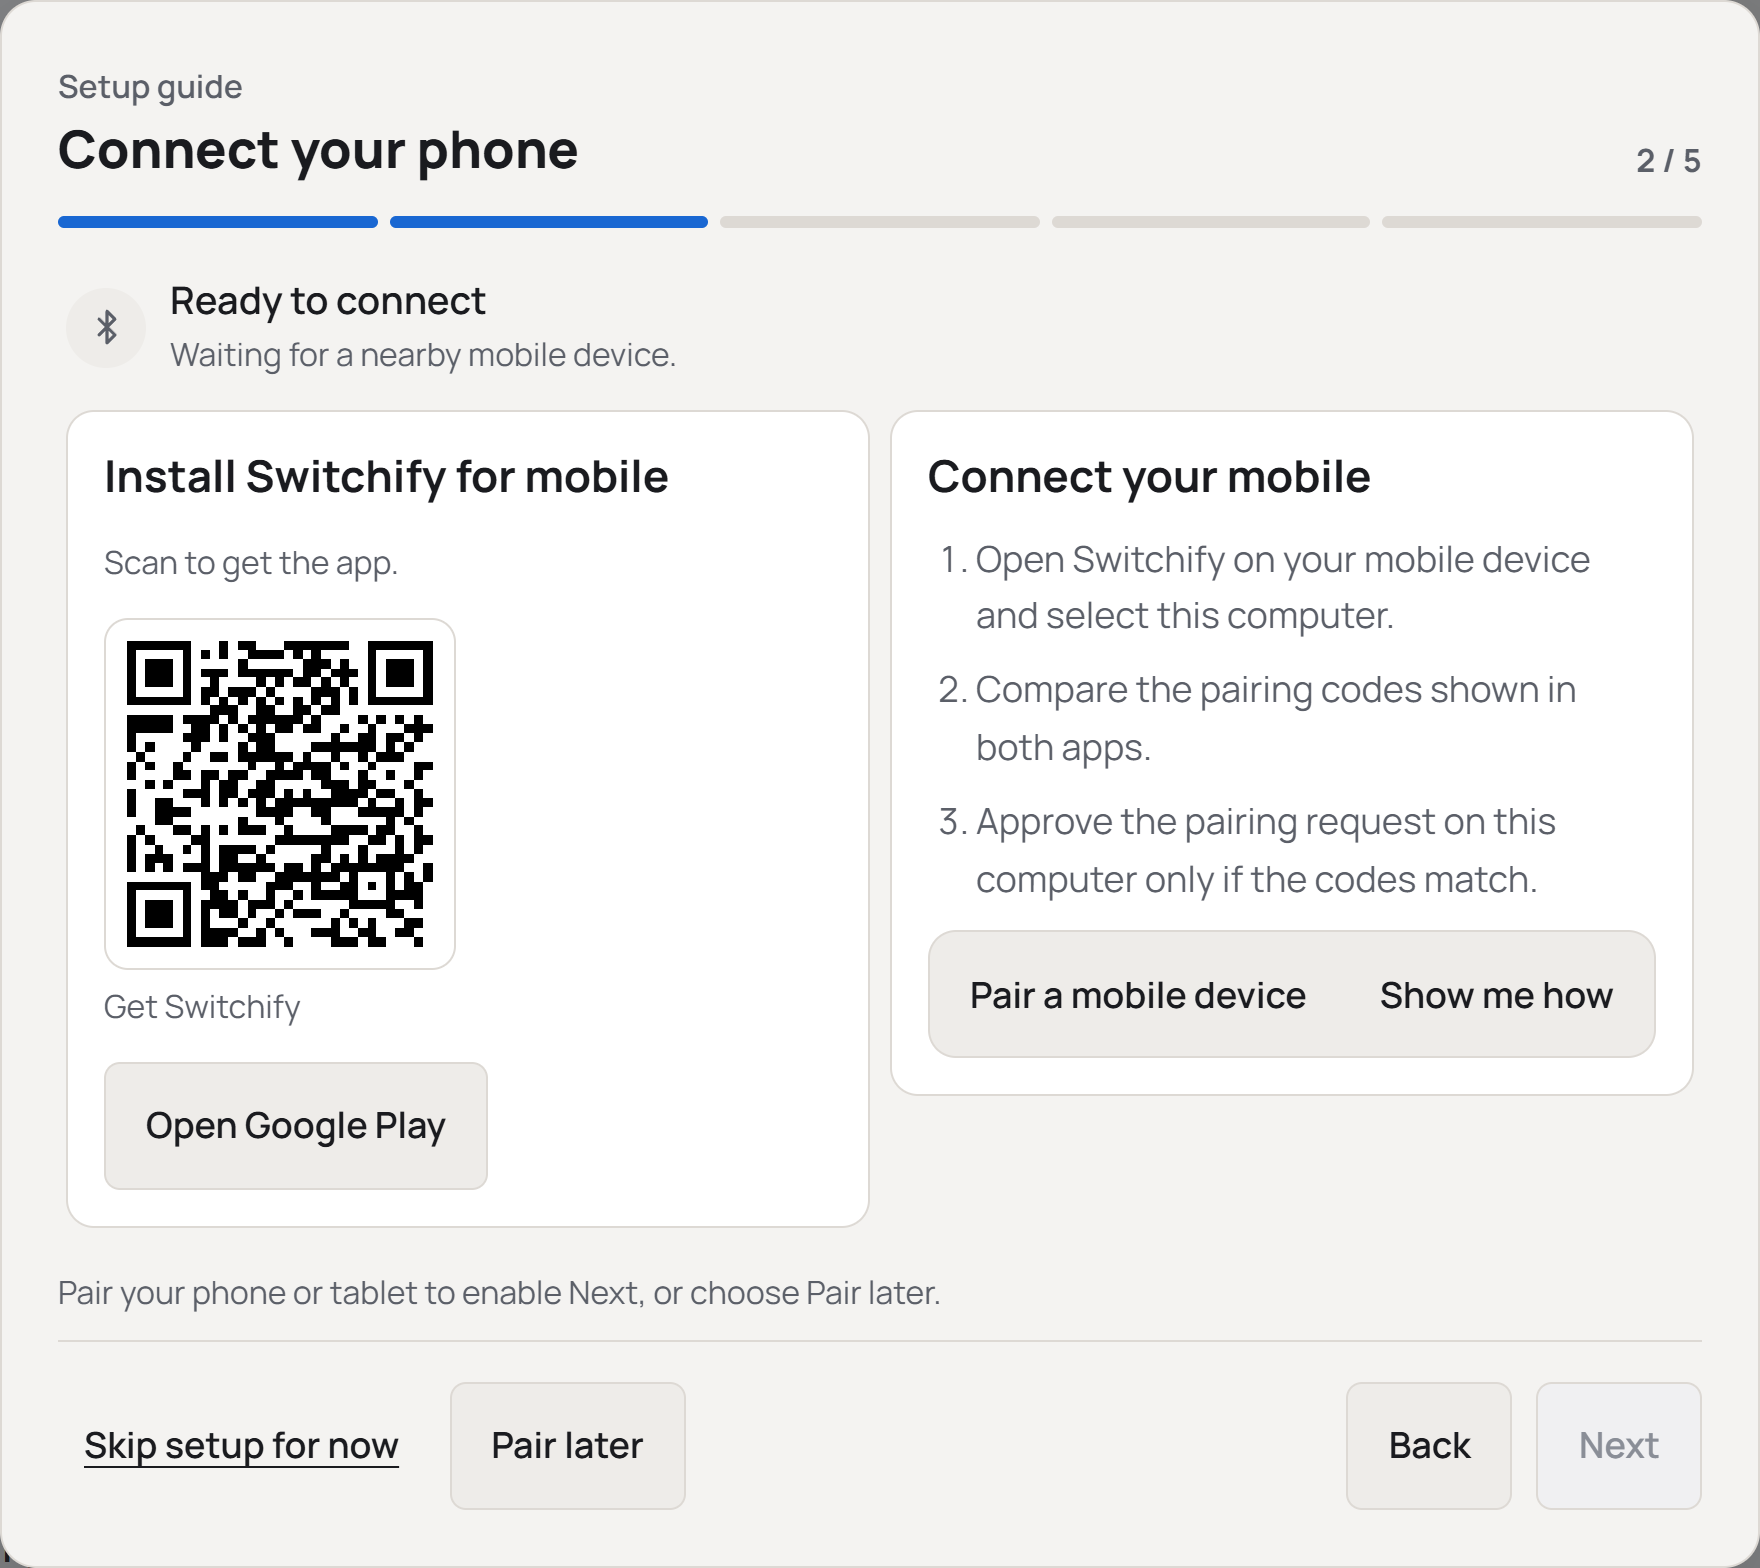
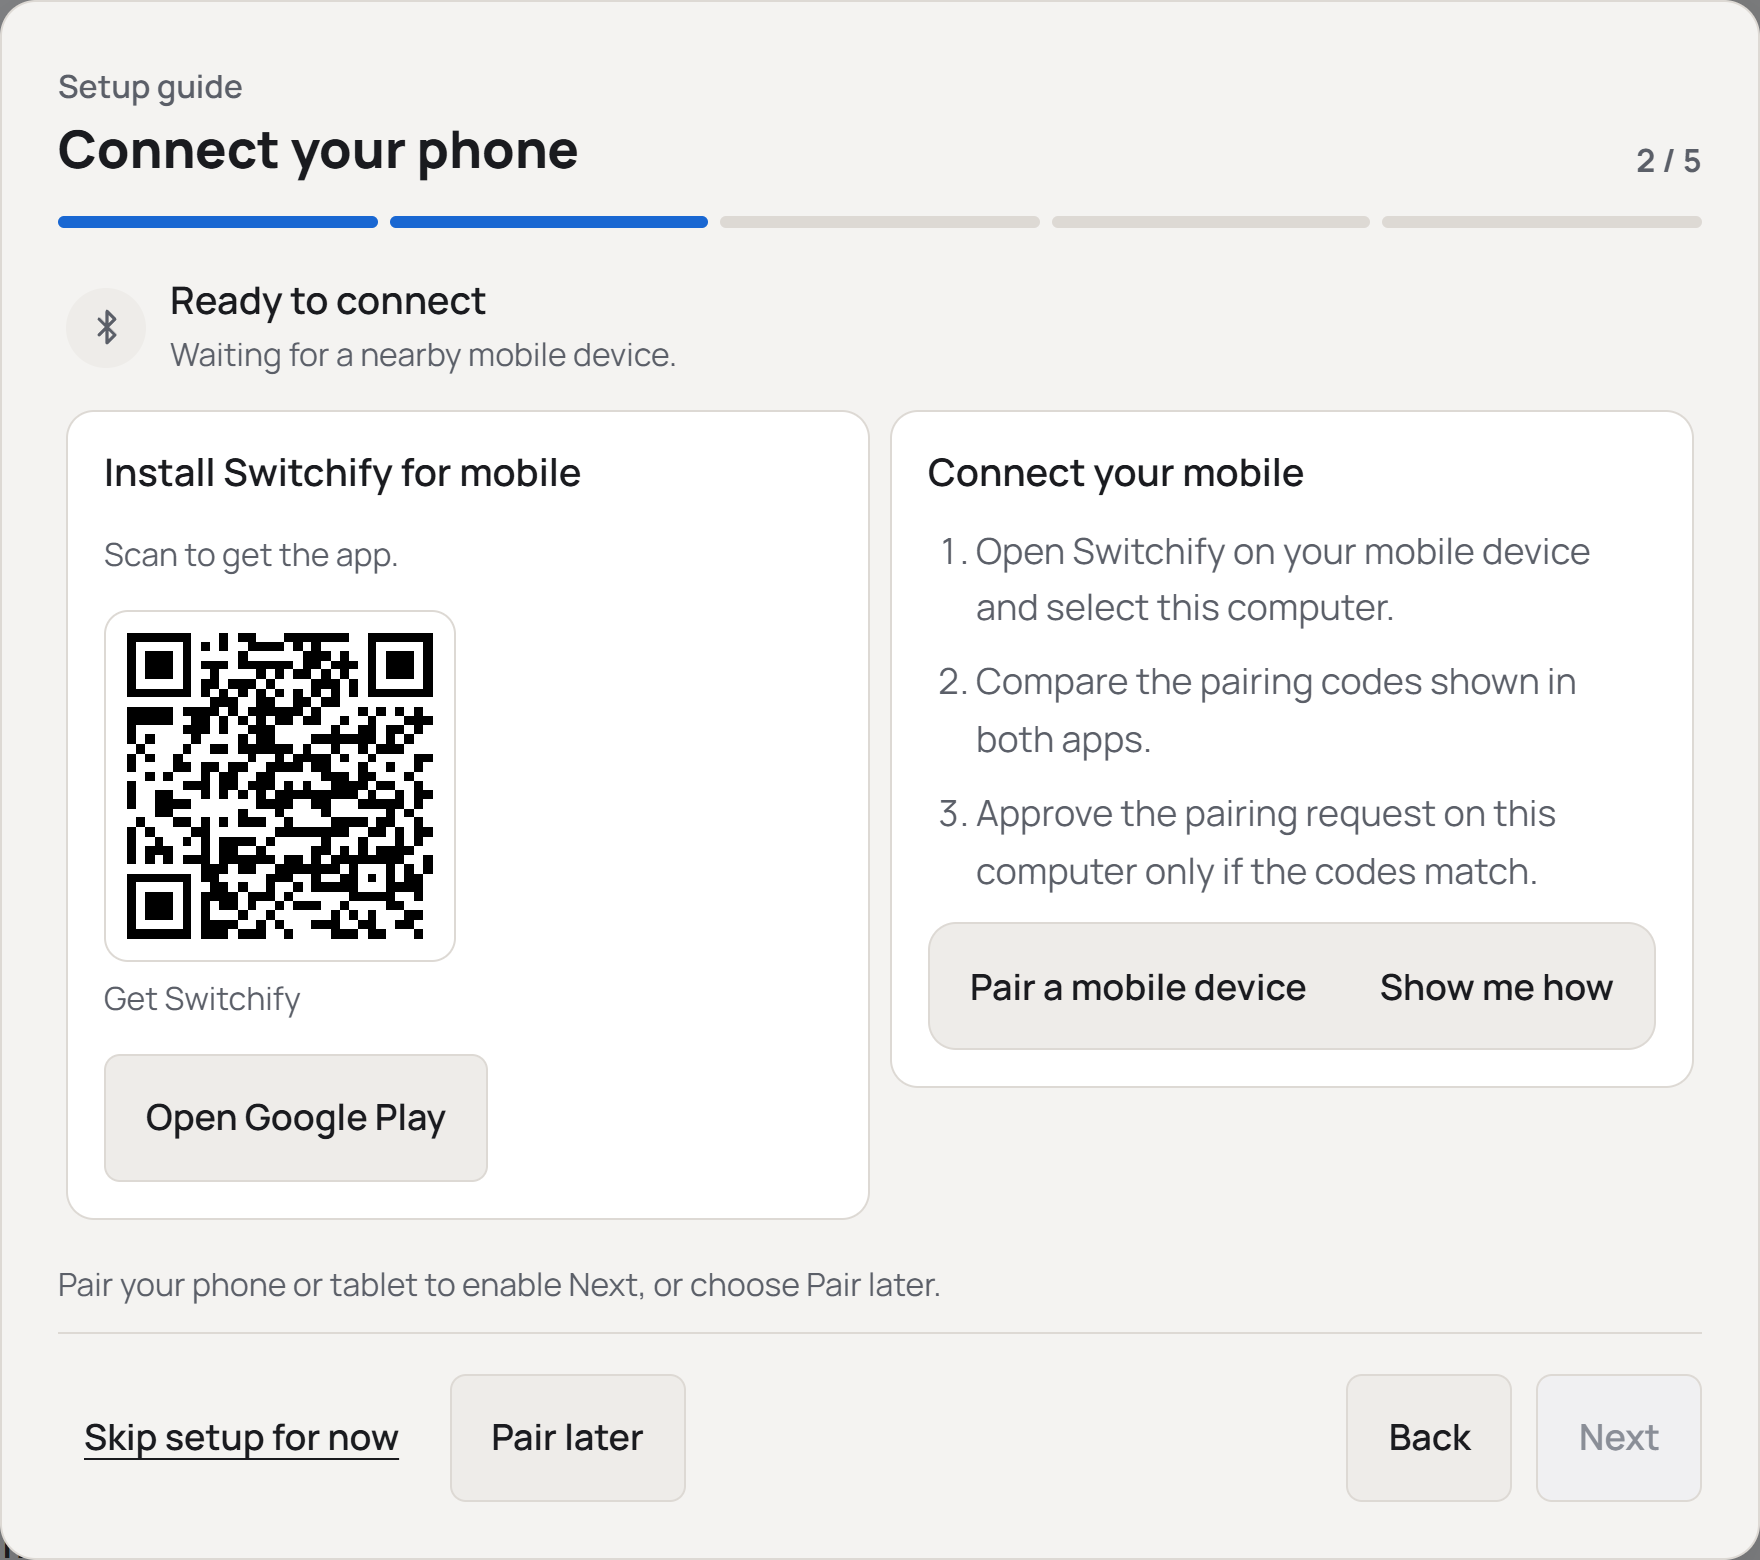
Address review of the setup guide connect step
- Hold the guide for switch saving only on the switch step, so an
  earlier failed save cannot trap someone on the phone path.
- Preselect the computer path when saved switches load after the
  guide opens.
- Keep the switch interface advice on the guide's switch step.
- Use h3 headings for the install cards inside the guide, and keep
  the chosen connection's description readable in forced colours.
- Docs: the phone choice is also unavailable when Bluetooth could not
  start.

Refs #1486

diff --git a/src/setup/SetupGuide.tsx b/src/setup/SetupGuide.tsx
@@ -44,6 +44,8 @@ export function SetupGuide({ state, switches, suspended, busy, error, skip, fini
   // Reopened after setup, the guide starts from what is already there.
   const [connection, setConnection] = useState<Connection | null>(() =>
     switches.state?.settings.bindings.length ? "computer" : state.pairedDevices.length && !phoneUnavailable ? "phone" : null);
+  const savedSwitches = !!switches.state?.settings.bindings.length;
+  useEffect(() => { if (savedSwitches) setConnection(current => current ?? "computer"); }, [savedSwitches]);
   const steps: Step[] = [...(inputAccessRequired ? ["access" as const] : []), "connect", connection === "phone" ? "phone" : "switch", "basics", "startup", "diagnostics"];
   const [requestedStep, setStep] = useState<Step>(() => inputAccessRequired ? "access" : "connect");
   // Permission can arrive while this guide is open. Move straight on without
@@ -58,7 +60,9 @@ export function SetupGuide({ state, switches, suspended, busy, error, skip, fini
   const dialogRef = useRef<HTMLElement>(null);
   const [switchDraft, setSwitchDraft] = useState(false);
   const capturing = switches.capturing || !!switches.state?.capture.active;
-  const switchBusy = capturing || !!switches.pending || switches.unsaved || switchDraft;
+  // Switch saving holds the guide only on the switch step, where it can be retried;
+  // elsewhere, an earlier failed save must not trap someone in the guide.
+  const switchBusy = step === "switch" && (capturing || !!switches.pending || switches.unsaved || switchDraft);
   const paired = state.pairedDevices.length > 0;
   const hasSwitch = !!switches.state?.settings.bindings.length;
   const canContinue = step === "connect" ? connection !== null
@@ -69,15 +73,14 @@ export function SetupGuide({ state, switches, suspended, busy, error, skip, fini
   const last = index === steps.length - 1;
   const next = () => last ? void finish(startupChoice!, diagnosticsChoice!) : setStep(steps[index + 1]);
   const guidanceId = useId();
-  const navigationGuidance = capturing
+  const navigationGuidance = !switchBusy ? null : capturing
     ? "Finish capturing a switch or cancel capture before continuing."
     : switches.pending
       ? "Wait for your switch changes to finish saving before continuing."
       : switches.unsaved
         ? "Your switch changes have not saved. Retry saving before continuing."
-        : switchDraft
-          ? "Save or cancel the new switch before continuing."
-          : busy
+        : "Save or cancel the new switch before continuing.";
+  const stepGuidance = busy
             ? "Please wait while setup saves your changes."
             : step === "connect" && connection === null
               ? "Choose how you will connect to enable Next."
@@ -90,6 +93,8 @@ export function SetupGuide({ state, switches, suspended, busy, error, skip, fini
                     : step === "diagnostics" && diagnosticsChoice === null
                       ? "Choose whether to share diagnostics to enable Finish."
                       : null;
+
+  const guidance = navigationGuidance ?? stepGuidance;
 
   useEffect(() => { if (!suspended && !capturing) dialogRef.current?.focus(); }, [step, suspended]);
 
@@ -119,20 +124,20 @@ export function SetupGuide({ state, switches, suspended, busy, error, skip, fini
           <h3>{paired ? `Paired with ${state.pairedDevices[0].deviceName}` : bluetoothLabels[state.bluetooth]}</h3>
           <p>{paired ? "You can pair more devices later from Mobile." : bluetoothDescriptions[state.bluetooth]}</p>
         </div></div>
-        <MobileInstallCards attributes={false} />
+        <MobileInstallCards attributes={false} nested />
       </div>}
       {step === "basics" && <div><h3>Use your switches</h3><p>Press and release Select to open Home. Choose Point to pick a place on the screen and an action, Mouse to move a visible pointer ring with mouse controls, or Keyboard to type. Apps and windows brings another app forward, so you never need to focus an app first. After an action, Select carries on in the same mode.</p><p>Automatic scanning moves the highlight for you. Use Auto scan rate for grid and panel timing, and Line speed for point scanning lines. Holding a switch pauses the scan highlight; release runs the action shown. Choose whether repeating Mouse movement and scrolling stop on switch press or release under Scanning, Mouse pointer.</p><p>Escape disables switch control. Assign Stop scanning or Pause / resume in Switches. Holding any switch for {switches.state ? switches.state.escapeHoldMs / 1000 : 4}s disables switch control.</p><p>Open Scanning after setup to adjust movement and switch between Point and Mouse. Mobile connection is optional.</p><Demonstration kind="grid" /><Demonstration kind="line" /><Demonstration kind="hold" /></div>}
       {step === "startup" && <div><h3>Choose startup behavior</h3><p>Switchify can start quietly when you sign in, ready for your switches.</p><div className="setup-choices" role="group" aria-label="Start with system choice"><Button className="secondary" aria-pressed={startupChoice === true} onClick={() => setStartupChoice(true)}>Start with system</Button><Button className="secondary" aria-pressed={startupChoice === false} onClick={() => setStartupChoice(false)}>Start manually</Button></div><Demonstration kind="startup" /></div>}
       {step === "diagnostics" && <div><h3>Choose whether to share diagnostics</h3><p>Optional anonymous app health, internal error reports and sanitized errors, sent to Sentry, help improve Switchify. Typed text, commands, pairing secrets, device names, and full paths are never included.</p><div className="setup-choices" role="group" aria-label="Anonymous diagnostics choice"><Button className="secondary" disabled={!state.telemetry.available} aria-pressed={diagnosticsChoice === true} onClick={() => setDiagnosticsChoice(true)}>Share diagnostics</Button><Button className="secondary" aria-pressed={diagnosticsChoice === false} onClick={() => setDiagnosticsChoice(false)}>Don’t share</Button></div><a className="setup-privacy" href="https://www.theswitchify.app/privacy" target="_blank" rel="noreferrer">Privacy policy</a></div>}
     </div>
-    <p id={guidanceId} className="setup-navigation-guidance" role="status">{navigationGuidance}</p>
+    <p id={guidanceId} className="setup-navigation-guidance" role="status">{guidance}</p>
     <footer>
       <Button className="text-button" disabled={busy || switchBusy} onClick={() => void skip()}>Skip setup for now</Button>
       {step === "switch" && !hasSwitch && <Button className="secondary" disabled={busy || switchBusy} onClick={next}>Set up switches later</Button>}
       {step === "phone" && !paired && <Button className="secondary" disabled={busy} onClick={next}>Pair later</Button>}
       <span />
       <Button className="secondary" disabled={busy || switchBusy || index === 0} onClick={() => setStep(steps[index - 1])}>Back</Button>
-      <Button className="primary" aria-describedby={navigationGuidance ? guidanceId : undefined} disabled={busy || switchBusy || !canContinue} onClick={next}>{last ? "Finish" : "Next"}</Button>
+      <Button className="primary" aria-describedby={guidance ? guidanceId : undefined} disabled={busy || switchBusy || !canContinue} onClick={next}>{last ? "Finish" : "Next"}</Button>
     </footer>
   </Dialog>;
 }

diff --git a/src/App.test.tsx b/src/App.test.tsx
@@ -582,6 +582,52 @@ describe("Switchify PC shell", () => {
     expect(screen.getByRole("dialog", { name: "Connect your phone" })).toBeInTheDocument();
   });
 
+  it("does not hold the phone path on an earlier failed switch save", async () => {
+    browserState.bluetooth = "advertising";
+    const switches = localSwitches();
+    switches.settings.bindings = [];
+    switches.state!.settings.bindings = [];
+    switches.unsaved = true;
+    switches.error = "Save failed";
+    vi.spyOn(switchHooks, "useSwitches").mockReturnValue(switches);
+    render(<App />);
+    fireEvent.click(await screen.findByRole("button", { name: "Help" }));
+    fireEvent.click(screen.getByRole("button", { name: "Open setup guide" }));
+    expect(await screen.findByRole("button", { name: "Skip setup for now" })).toBeEnabled();
+    fireEvent.click(screen.getByRole("button", { name: "Switchify on my Android phone or tablet" }));
+    fireEvent.click(screen.getByRole("button", { name: "Next" }));
+    expect(screen.getByRole("dialog", { name: "Connect your phone" })).toBeInTheDocument();
+    expect(screen.getByRole("button", { name: "Pair later" })).toBeEnabled();
+    expect(screen.getByRole("button", { name: "Back" })).toBeEnabled();
+    // On the switch step the same failure is shown and holds the guide until retried.
+    fireEvent.click(screen.getByRole("button", { name: "Back" }));
+    fireEvent.click(screen.getByRole("button", { name: "A switch on this computer" }));
+    fireEvent.click(screen.getByRole("button", { name: "Next" }));
+    expect(screen.getByRole("button", { name: "Next" })).toHaveAccessibleDescription("Your switch changes have not saved. Retry saving before continuing.");
+  });
+
+  it("preselects a switch on this computer when saved switches load after the guide opens", async () => {
+    const switches = localSwitches();
+    const loading = { ...switches, state: null };
+    const hook = vi.spyOn(switchHooks, "useSwitches").mockReturnValue(loading);
+    const { rerender } = render(<App />);
+    fireEvent.click(await screen.findByRole("button", { name: "Help" }));
+    fireEvent.click(screen.getByRole("button", { name: "Open setup guide" }));
+    expect(await screen.findByRole("button", { name: "A switch on this computer" })).toHaveAttribute("aria-pressed", "false");
+    hook.mockReturnValue(switches);
+    rerender(<App />);
+    await waitFor(() => expect(screen.getByRole("button", { name: "A switch on this computer" })).toHaveAttribute("aria-pressed", "true"));
+  });
+
+  it("keeps switch interface advice on the guide's switch step", async () => {
+    render(<App />);
+    fireEvent.click(await screen.findByRole("button", { name: "Help" }));
+    fireEvent.click(screen.getByRole("button", { name: "Open setup guide" }));
+    fireEvent.click(await screen.findByRole("button", { name: "A switch on this computer" }));
+    fireEvent.click(screen.getByRole("button", { name: "Next" }));
+    expect(within(screen.getByRole("dialog", { name: "Add your switch" })).getByText(/Mouse-click modes cannot be learned/)).toBeInTheDocument();
+  });
+
   it("continues without pairing when the phone is set up later", async () => {
     browserState.bluetooth = "advertising";
     render(<App />);

diff --git a/src/mobile.tsx b/src/mobile.tsx
@@ -27,13 +27,15 @@ export function bluetoothUnavailable(bluetooth: AppState["bluetooth"]) {
 }
 
 /** Getting Switchify for mobile and pairing it, shared by the Mobile page and the setup guide. */
-export function MobileInstallCards({ attributes = true }: { attributes?: boolean }) {
+export function MobileInstallCards({ attributes = true, nested = false }: { attributes?: boolean; nested?: boolean }) {
+  // Inside the setup guide, the cards sit under the step's own heading.
+  const Heading = nested ? "h3" : "h2";
   return <div className="mobile-cards" {...(attributes ? { "data-section": "pairing", "data-setting": "pairing" } : {})}>
     <div className="mobile-download">
-      <h2>Install Switchify for mobile</h2><p>Scan to get the app.</p>
+      <Heading>Install Switchify for mobile</Heading><p>Scan to get the app.</p>
       <figure><img src={mobileQrUrl} alt="QR code for Switchify on Google Play" /><figcaption>Get Switchify</figcaption></figure>
       <a className="secondary" href={mobileDownloadUrl} target="_blank" rel="noreferrer">Open Google Play</a>
     </div>
-    <section className="mobile-pairing"><h2>Connect your mobile</h2><ol><li>Open Switchify on your mobile device and select this computer.</li><li>Compare the pairing codes shown in both apps.</li><li>Approve the pairing request on this computer only if the codes match.</li></ol><Demonstration kind="pair" /></section>
+    <section className="mobile-pairing"><Heading>Connect your mobile</Heading><ol><li>Open Switchify on your mobile device and select this computer.</li><li>Compare the pairing codes shown in both apps.</li><li>Approve the pairing request on this computer only if the codes match.</li></ol><Demonstration kind="pair" /></section>
   </div>;
 }

diff --git a/src/ui/app.css b/src/ui/app.css
@@ -860,6 +860,7 @@ fieldset:disabled :is(.color-options, .scanner-colours) label:not(:has(input:che
 @media (forced-colors: active) {
   .segmented .btn[aria-pressed="true"], .setup-choices .btn[aria-pressed="true"], .color-options label:has(input:checked), .scanner-colours label:has(input:checked) { forced-color-adjust: none; color: HighlightText; background: Highlight; border-color: ButtonText; outline: none; }
   .segmented .btn[aria-pressed="true"]::after, .setup-choices .btn[aria-pressed="true"]::after { border-color: currentColor; }
+  .setup-choices .btn[aria-pressed="true"] small { color: inherit; }
   .btn.tile-nav[data-active="true"], .toggle-row:has(input:checked), .switch-row[data-open], .tile-find:focus-within, .tile-find.tile-chosen, [data-found] { outline: 3px solid Highlight; outline-offset: -3px; }
   .segmented .btn:focus-visible, .setup-choices .btn:focus-visible, .color-options label:has(input:focus-visible), .scanner-colours label:has(input:focus-visible) { outline: 3px solid CanvasText; outline-offset: 3px; }
   /* Focus must still read as focus on the current page's own button. */

diff --git a/src/settings/SwitchesSection.tsx b/src/settings/SwitchesSection.tsx
@@ -941,6 +941,7 @@ export function SwitchesSection({ controller, onDraftChange, suspended = false, 
         )}
         <SwitchPractice disabled={!!state?.keyboardEntry || entryPending || capturing || !!pending || unsaved || !!remote.pending || remote.unsaved || !!draft || suspended} />
       </SettingGroup>
+      {compact && <SettingNote about="switch interfaces" summary={interfaceModeAdvice} detail={reservedKeyAdvice(platform)} />}
       {!compact && <MoreOptions label="More options">
       <SettingGroup
         section="timing"

diff --git a/site/src/content/docs/get-started/install.md b/site/src/content/docs/get-started/install.md
@@ -49,7 +49,7 @@ The first time Switchify PC opens, a guide walks you through:
 
    ![The Input access step of the setup guide on a Mac, with an Open Accessibility Settings button and a Show me how demonstration.](../../../assets/screenshots/setup-input-access-macos.png)
 
-2. **How will you connect?** Choose **A switch on this computer** if your switch is plugged in through a switch interface or a USB switch, or **Switchify on my Android phone or tablet** if you control the computer from Switchify on Android. You can set up the other one later. The phone choice is unavailable on a computer without the Bluetooth features Switchify PC needs, and it says so.
+2. **How will you connect?** Choose **A switch on this computer** if your switch is plugged in through a switch interface or a USB switch, or **Switchify on my Android phone or tablet** if you control the computer from Switchify on Android. You can set up the other one later. The phone choice is unavailable, and says why, on a computer without the Bluetooth features Switchify PC needs or when Bluetooth could not start.
 
    ![The How will you connect step, with A switch on this computer chosen and Switchify on my Android phone or tablet beside it.](../../../assets/screenshots/setup-connect.png)
 
